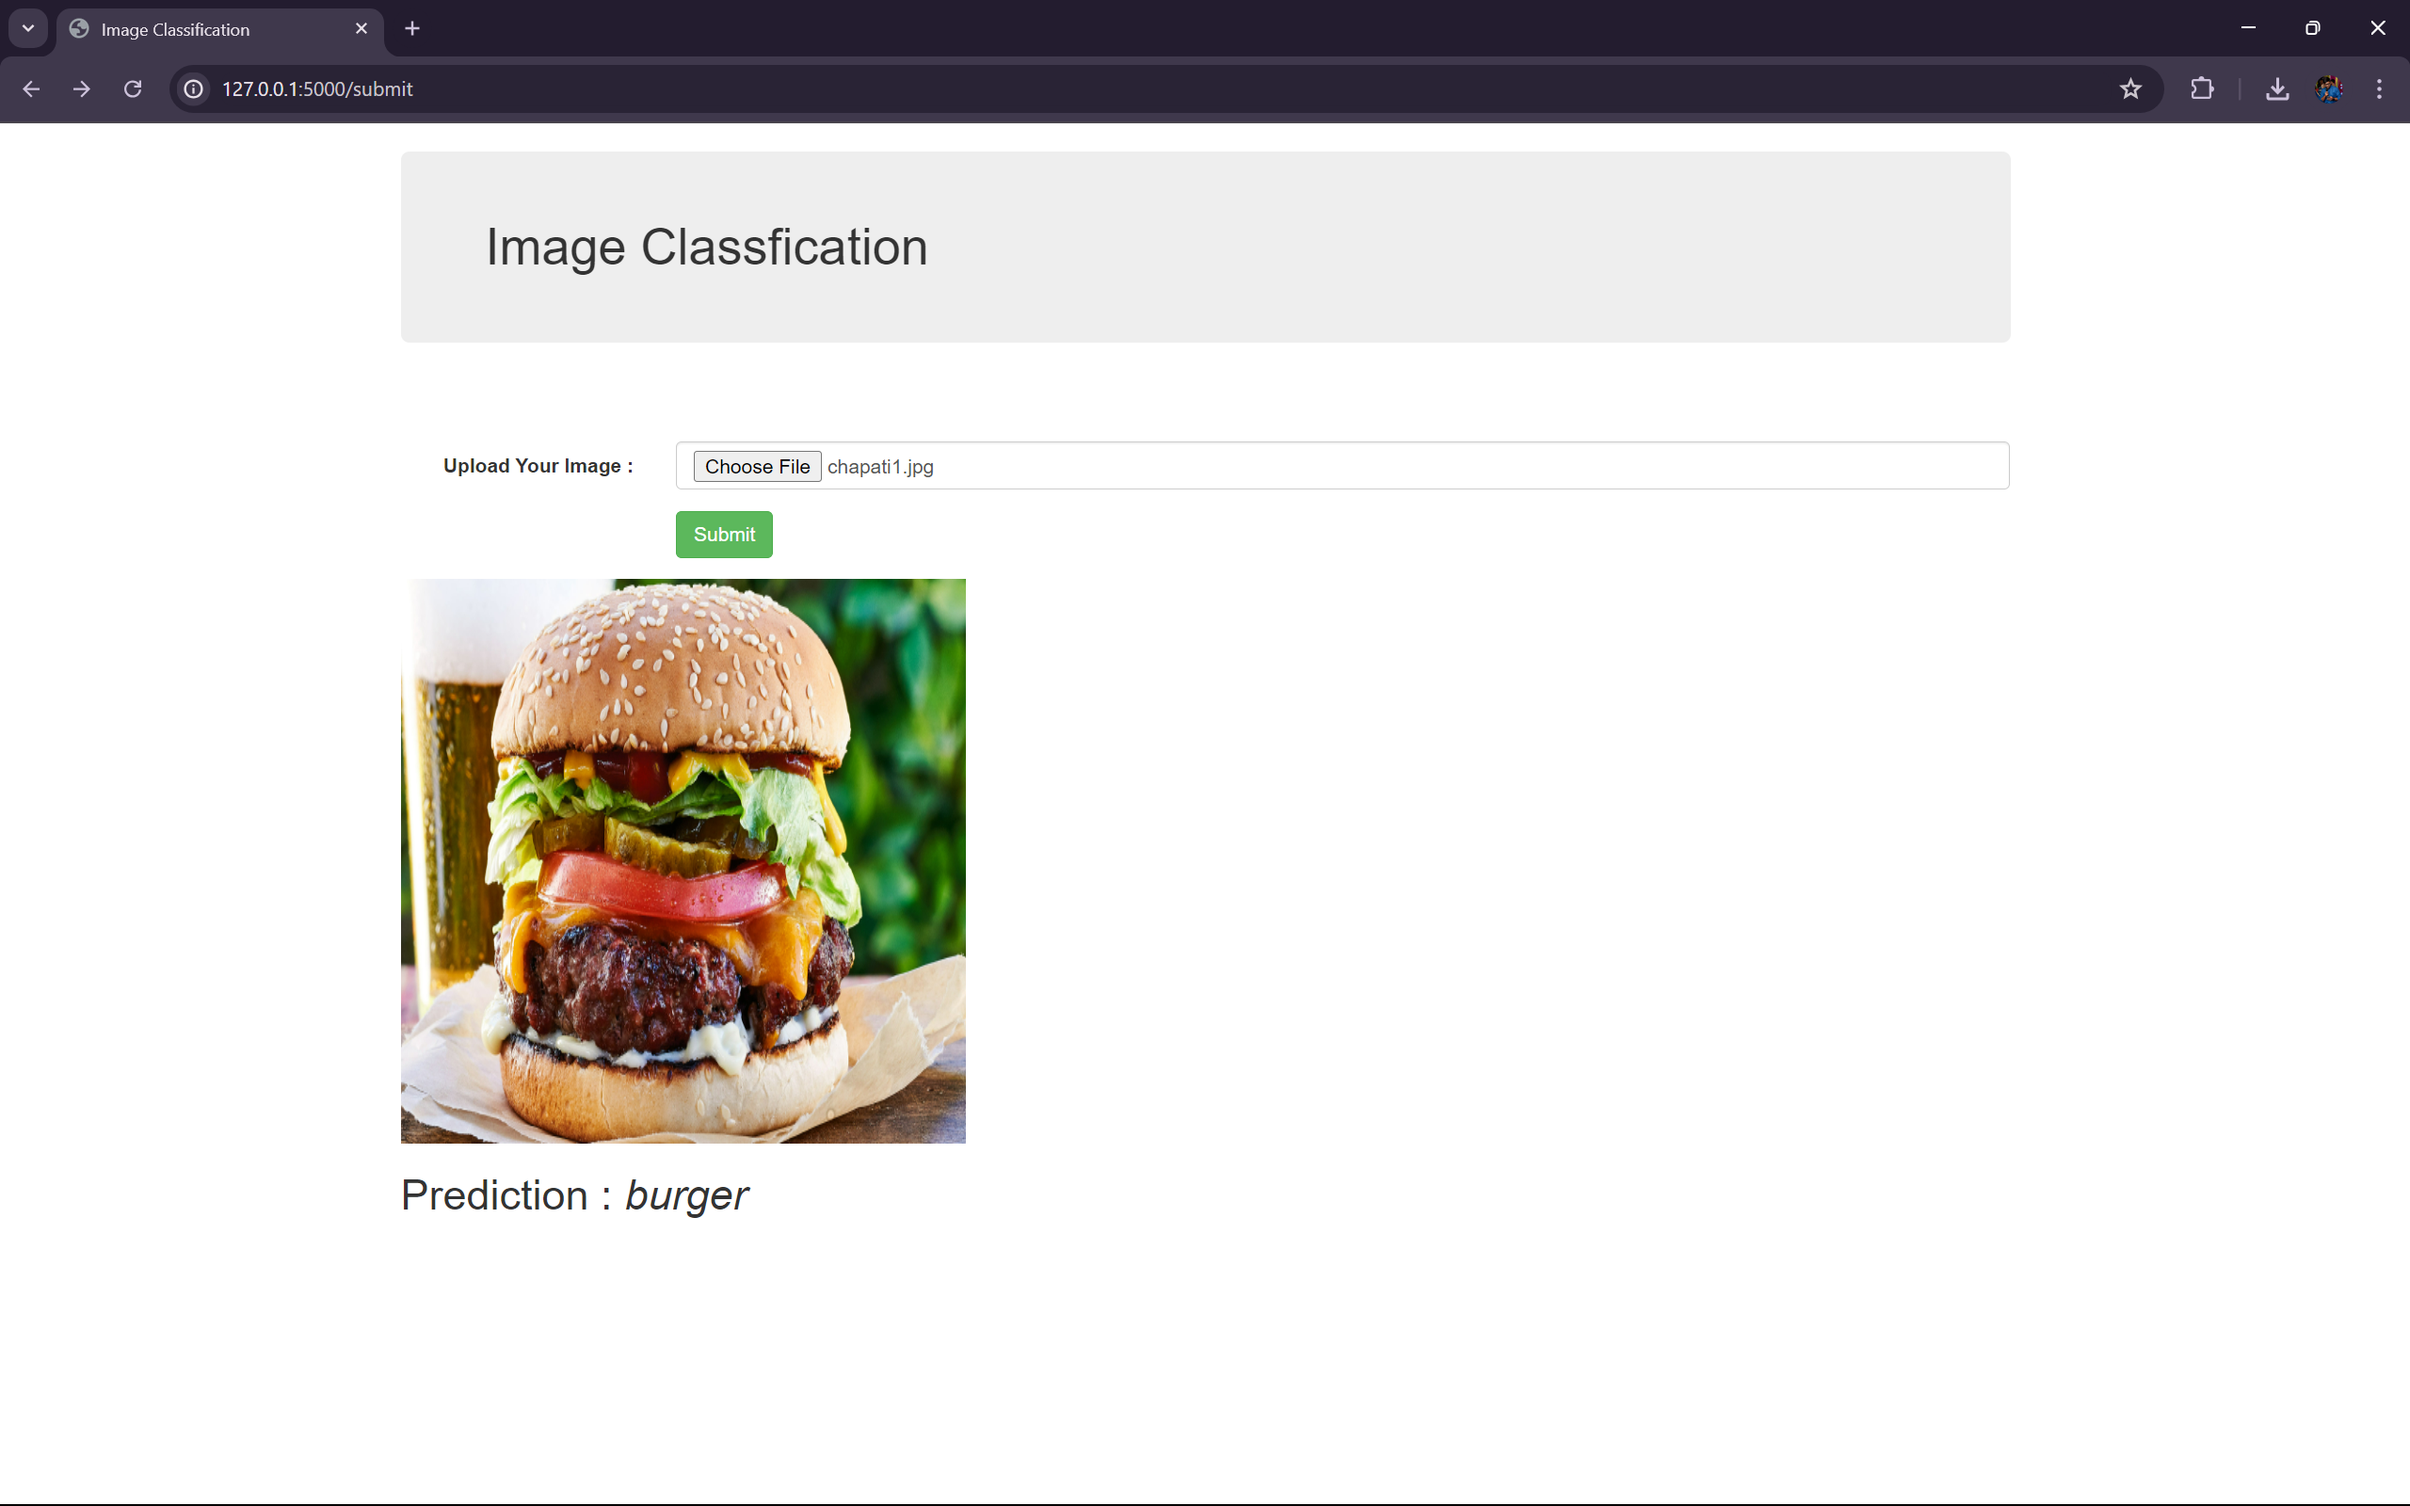
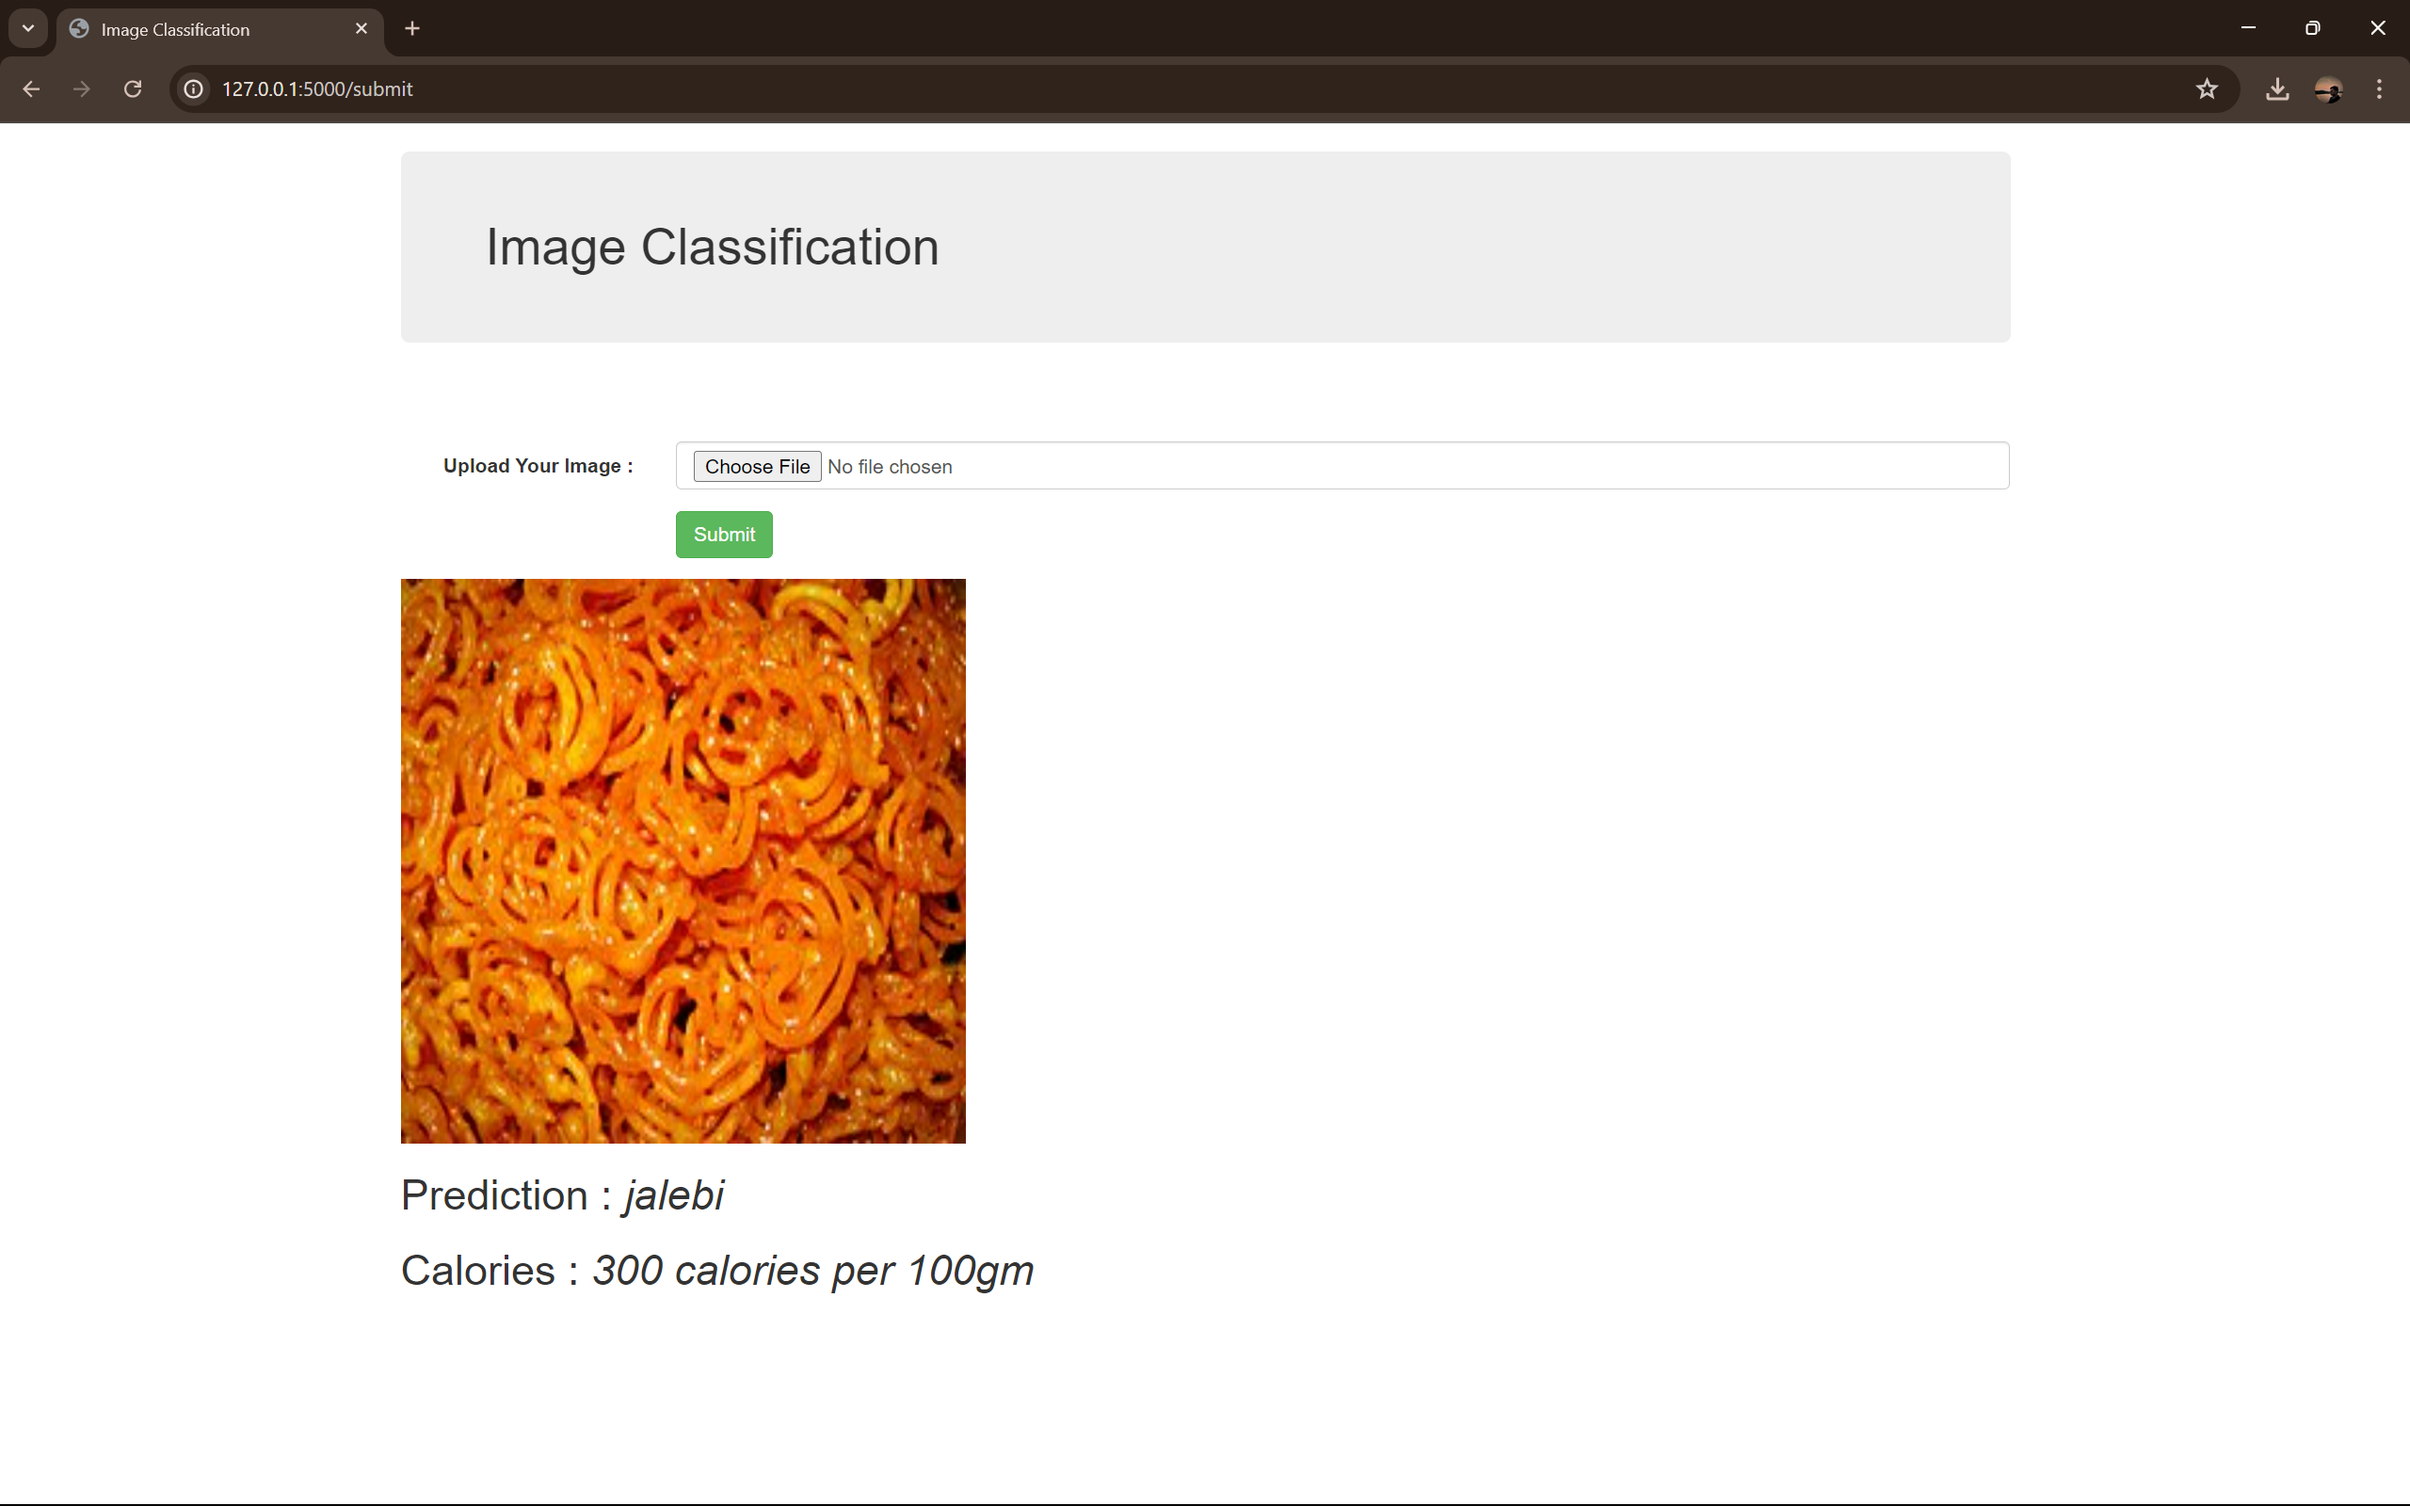
final

diff --git a/templates/index.html b/templates/index.html
@@ -11,32 +11,27 @@
 </head>
 
 <body>
-
     <div class="container">
-        <h1 class="jumbotron bg-primary">Image Classfication</h1>
+        <h1 class="jumbotron bg-primary">Image Classification</h1>
         <br><br>
         <form class="form-horizontal" action="/submit" method="post" enctype="multipart/form-data">
-
             <div class="form-group">
                 <label class="control-label col-sm-2" for="pwd">Upload Your Image :</label>
                 <div class="col-sm-10">
-                    <input type="file" class="form-control" placeholder="Hours Studied" name="my_image" id="pwd">
+                    <input type="file" class="form-control" name="my_image" id="pwd">
                 </div>
             </div>
-
             <div class="form-group">
                 <div class="col-sm-offset-2 col-sm-10">
                     <button type="submit" class="btn btn-success">Submit</button>
                 </div>
             </div>
         </form>
-
         {% if prediction %}
-        <img src="{{img_path}}" height="400px" width="400px">
-        <h2> Prediction : <i> {{prediction}} </i></h2>
-
+        <img src="{{ img_path }}" height="400px" width="400px">
+        <h2> Prediction : <i> {{ prediction }} </i></h2>
+        <h2> Calories : <i> {{ cal }} calories per 100gm</i></h2>
         {% endif %}
-
     </div>
 </body>
 

diff --git a/app.py b/app.py
@@ -1,15 +1,13 @@
 from flask import Flask, render_template, request
 from keras.models import load_model
 from keras.preprocessing import image
+import pandas as pd
 import numpy as np
 
 app = Flask(__name__)
 
-dic = {0: 'burger', 1: 'butter_naan', 2: 'chai', 3: 'chapati', 4: 'chole_bhature', 5: 'dal_makhani', 6: 'dhokla', 7: 'fried_rice', 8: 'idli',
-	   9: 'jalebi', 10: 'kaathi_rolls', 11: 'kadai_paneer', 12: 'kulfi', 13: 'masala_dosa', 14: 'momos', 15: 'paani_puri', 16: 'pakode', 
-	   17: 'pav_bhaji', 18: 'pizza', 19: 'samosa'}
-
 model = load_model('./Models/my_model.h5')
+df = pd.read_csv("./food_calories.csv")
 
 model.make_predict_function()
 
@@ -18,17 +16,13 @@ def predict_label(img_path):
 	i = image.img_to_array(i)
 	i = i.reshape(1, 256,256,3)
 	p = np.argmax(model.predict(i))
-	return dic[p]
-
+	return df[df["Class"]==p]["Name"].values[0], df[df["Class"]==p]["Calories per 100g"].values[0]
 
 # routes
 @app.route("/", methods=['GET', 'POST'])
 def main():
 	return render_template("index.html")
 
-@app.route("/about")
-def about_page():
-	return "Please subscribe  Artificial Intelligence Hub..!!!"
 
 @app.route("/submit", methods = ['GET', 'POST'])
 def get_output():
@@ -38,9 +32,9 @@ def get_output():
 		img_path = "static/" + img.filename	
 		img.save(img_path)
 
-		p = predict_label(img_path)
+		p, c = predict_label(img_path)
 
-	return render_template("index.html", prediction = p, img_path = img_path)
+	return render_template("index.html", prediction = p, img_path = img_path, cal=c,)
 
 
 if __name__ =='__main__':

diff --git a/README.md b/README.md
@@ -96,7 +96,10 @@ Ensure that the model file (`my_model.h5`) is placed in the `Models` directory.
 ## Screenshots
 Here are some screenshots of the application:
 
+### Landing Page
 ![Screenshot 1](screenshots/ss1.png)
+
+### Upload Image
 ![Screenshot 2](screenshots/ss2.png)
 ![Screenshot 3](screenshots/ss3.png)
 ![Screenshot 4](screenshots/ss4.png)
